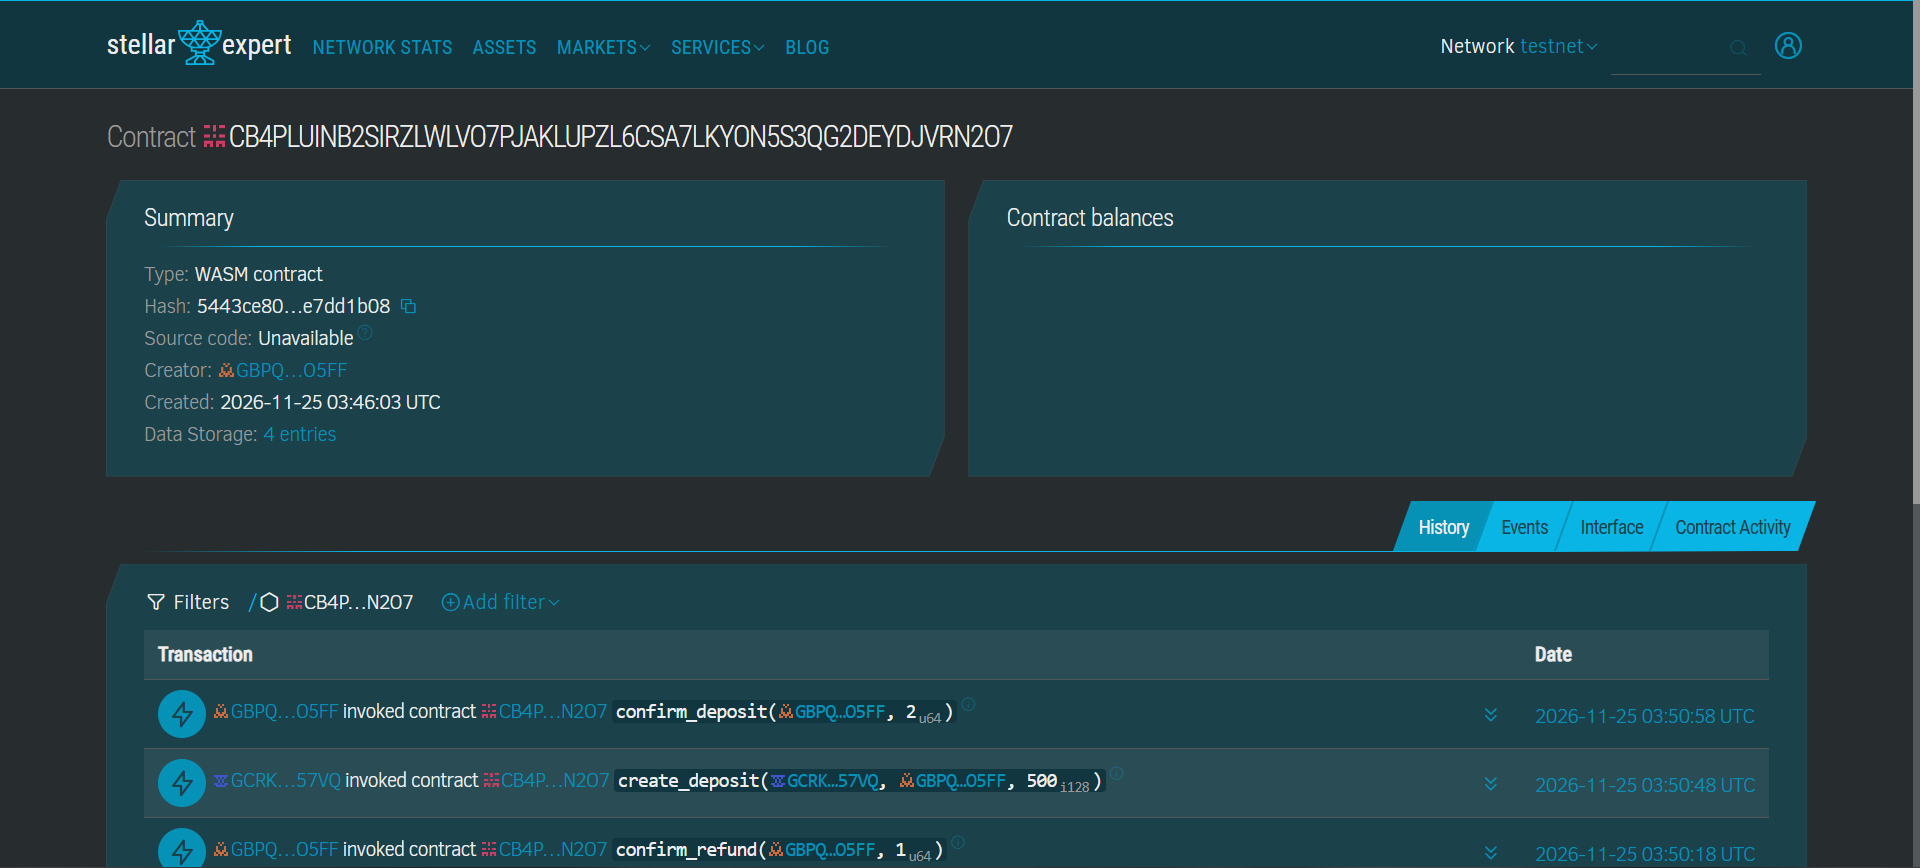
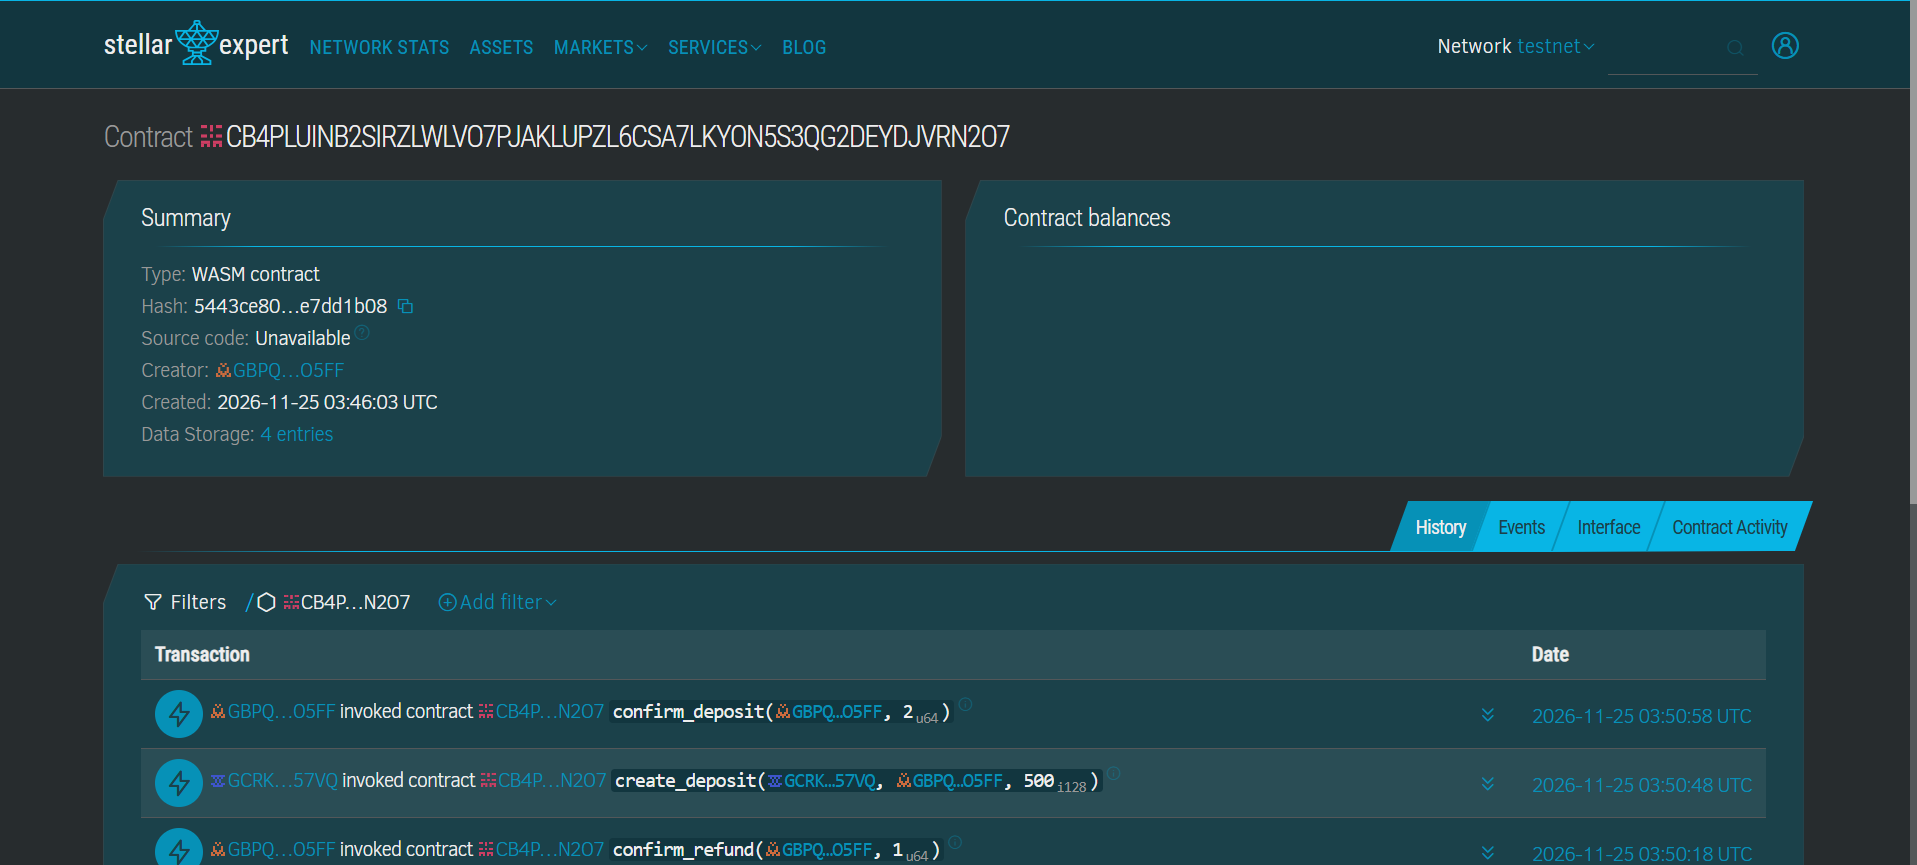
change name and file image

diff --git a/README.md b/README.md
@@ -77,4 +77,4 @@ stellar contract invoke --id my-contract --source-account student --network test
 Contract ID: CB4PLUINB2SIRZLWLVO7PJAKLUPZL6CSA7LKYON5S3QG2DEYDJVRN2O7
 Deployer:
 
-![Contract on Stellar Expert](Image.png)
+![Contract on Stellar Expert](image.png)
